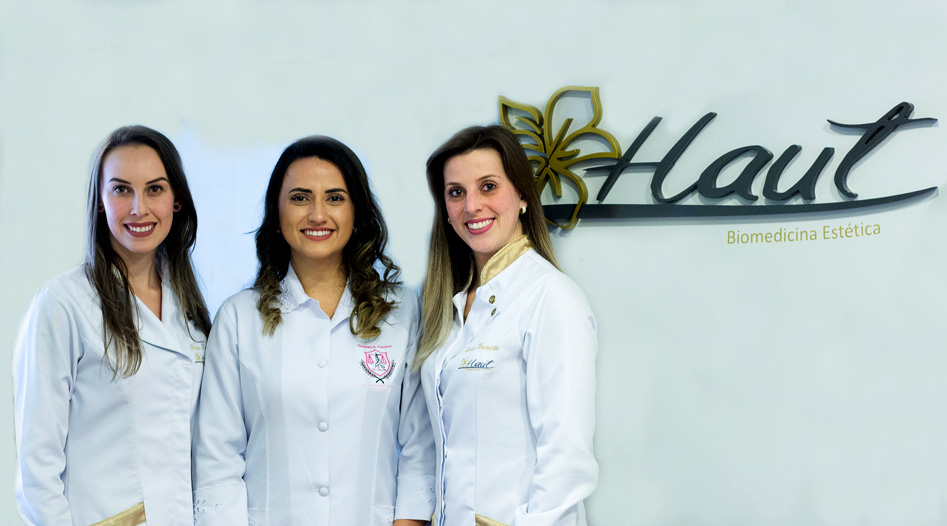
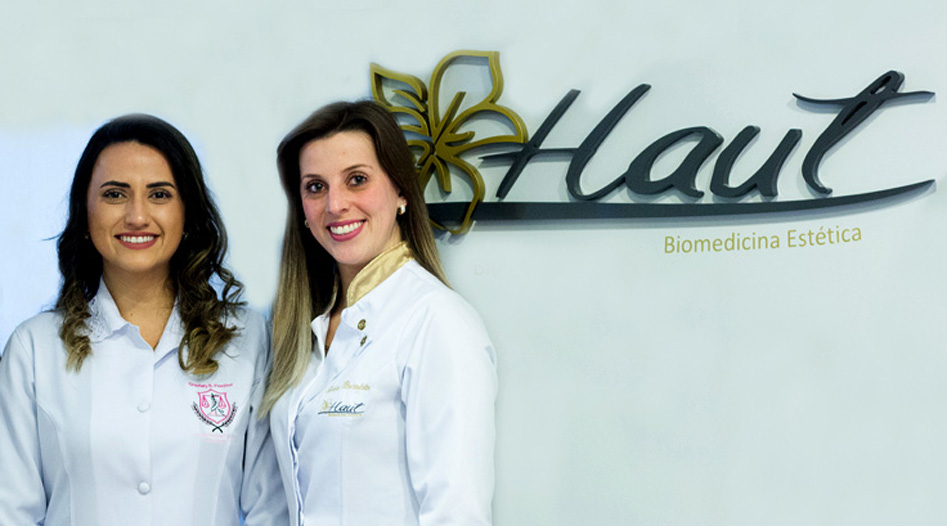
retirada da bruna

diff --git a/clinica.php b/clinica.php
@@ -131,22 +131,6 @@
                         </div>
                     </div>
                     <div class="col-md-4">
-                        <div class="team-member wow fadeInLeft" data-wow-duration="500ms" data-wow-delay=".5s">
-                            <div class="team-img">
-                                <img src="images/team/bruna.jpg" class="team-pic" alt="">
-                            </div>
-                            <h3 class="team_name">Bruna L. Zaccaron</h3>
-                            <p class="team_designation">CRBM-5: 2577</p>
-
-                            <p class="team_text">Sócia-proprietária a Dra. Bruna L. Zaccaron, graduada em Biomedicina com habilitação em Patologia Clínica pela Universidade Feevale (2016). </p>
-                            <p class="team_text"> Pós- graduada em Biomedicina Estética pelo Instituto de Saúde Esportiva estética e clínica (ISEEC).</p> 
-                            <p class="team_text">Habilitação em Biomedicina estética pelo Conselho Regional de Biomedicina 5a região (CRBM-5).</p>
-
-                            <p class="team_text">Com mais de 3 anos de experiência na área estética, está em constante atualização em cursos e congressos</p>
-                            
-                        </div>
-                    </div>
-                    <div class="col-md-4">
                         <div class="team-member wow fadeInLeft" data-wow-duration="500ms" data-wow-delay=".7s">
                             <div class="team-img">
                                 <img src="images/team/nutri.jpg" class="team-pic" alt="">
